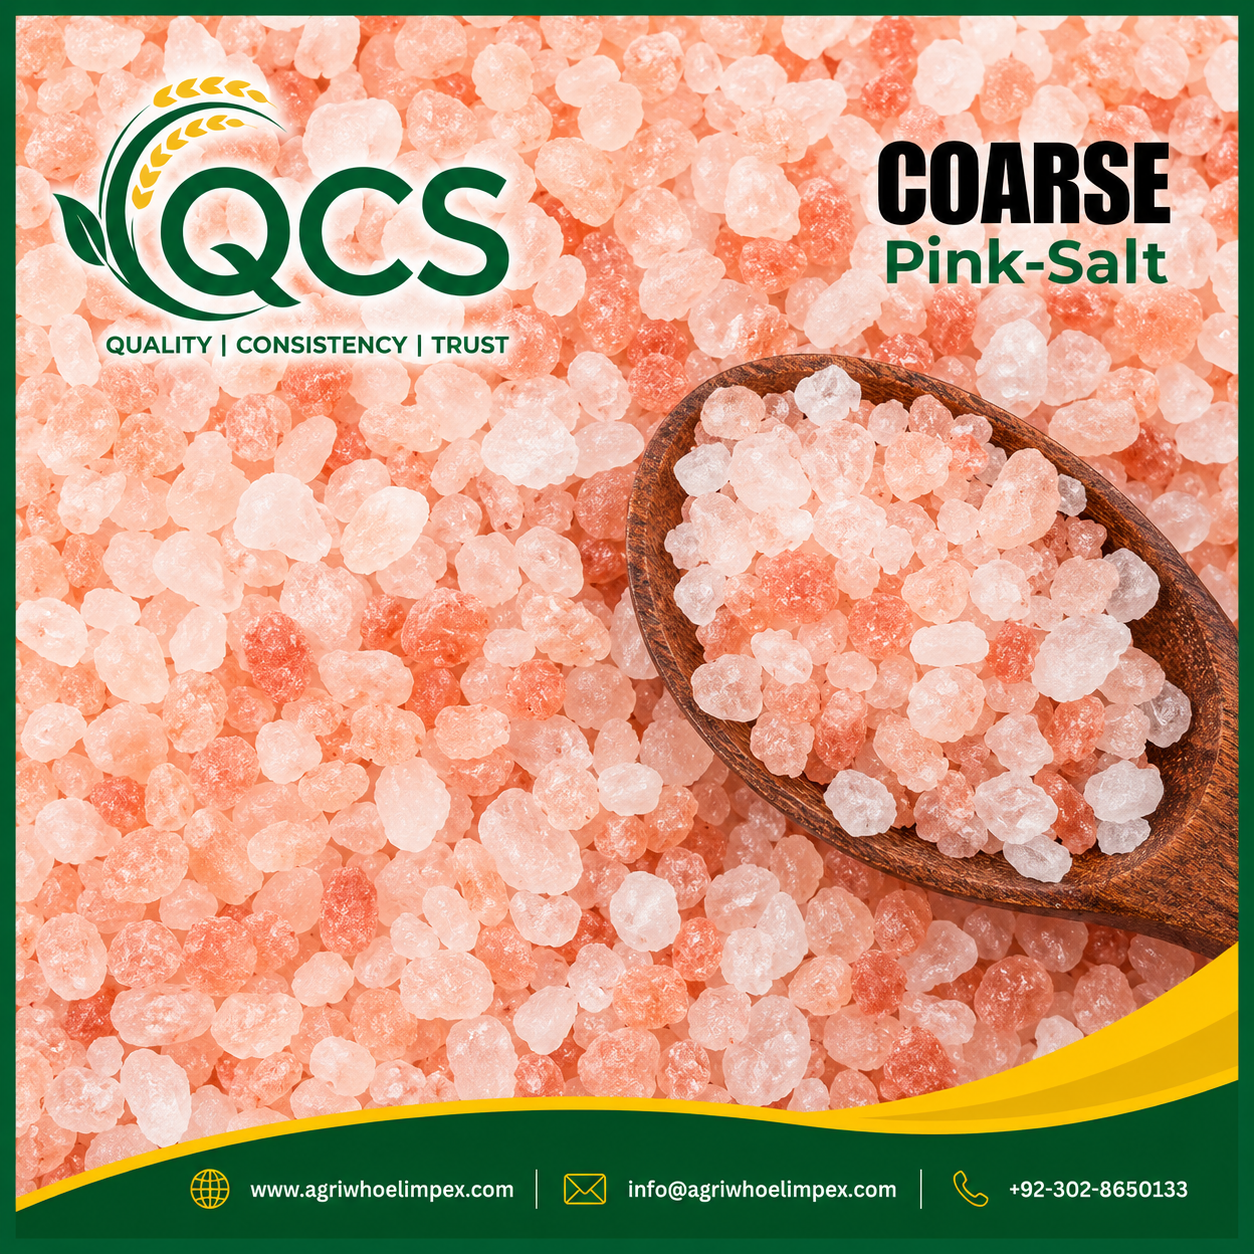
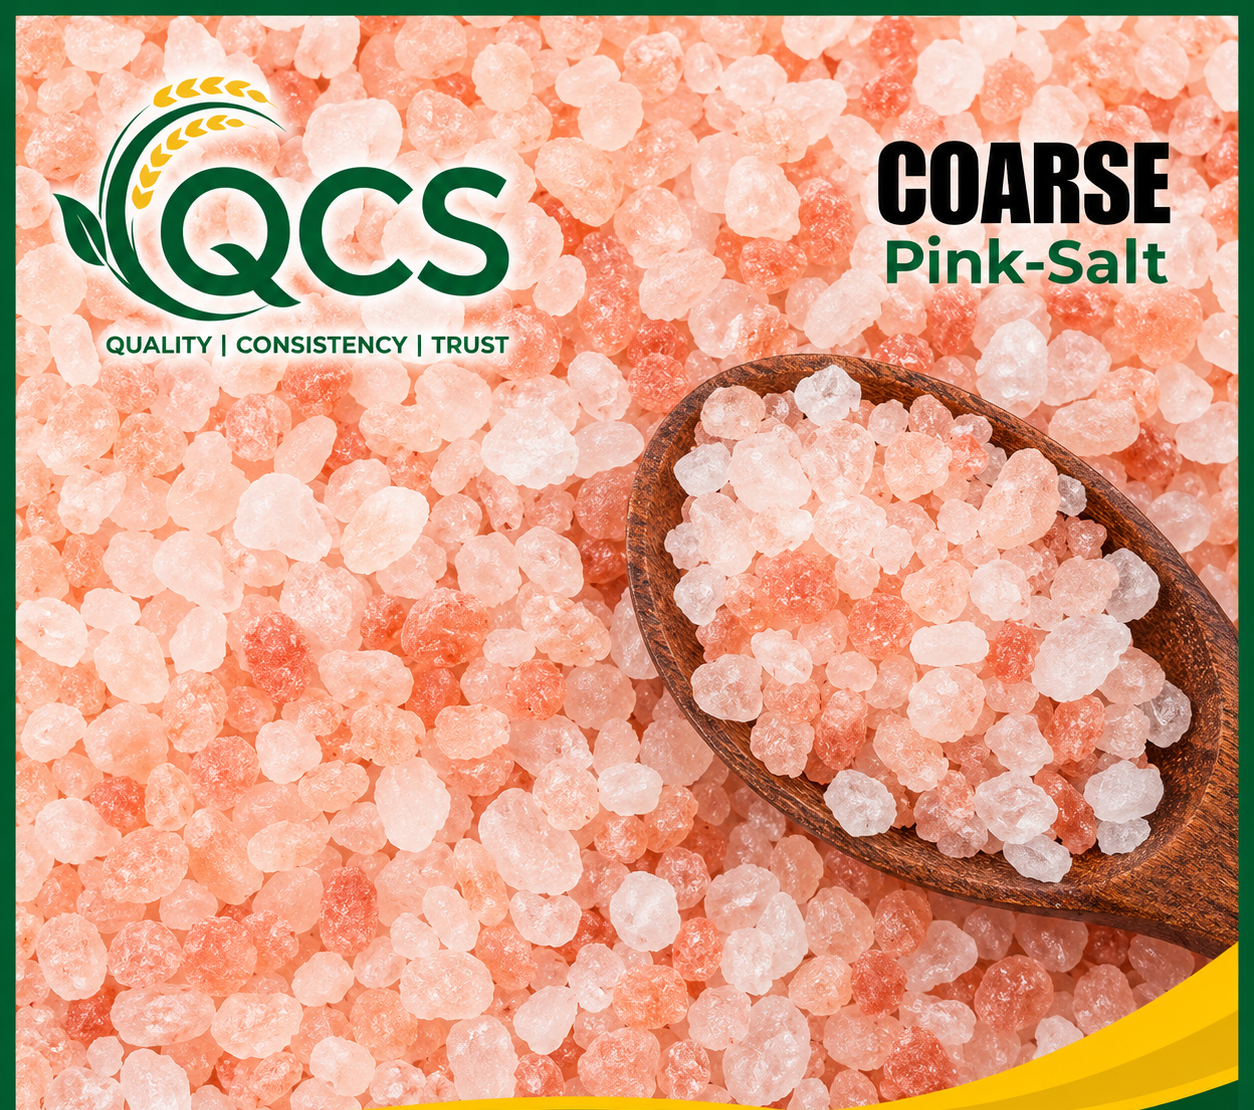
adding salt pics
Sale new 2 pics changed. GPT limit full

diff --git a/app/sourcing/page.tsx b/app/sourcing/page.tsx
@@ -9,6 +9,7 @@ import rice_img_steam from "@/public/img/rice_img_steam.png";
 import rice_img_steam2 from "@/public/img/rice_img_steam2.png";
 import rice_img_white from "@/public/img/rice_img_white.png";
 import salt_img_coarse from "@/public/img/salt_coarse.png";
+import salt_img_fine from "@/public/img/salt_fine_himaliyan.png";
 
 
 export default function sourcing() {
@@ -136,19 +137,19 @@ export default function sourcing() {
                 <div className="grid grid-cols-2 md:grid-cols-4 items-center text-center gap-5 p-5 mx-auto md:mx-10">
                     <div>
                         <Image src={salt_img_coarse} alt="mission" width={500} height={300} className="" ></Image>
-                        <p>1121 Sella Rice</p>
+                        <p>Coarse Himalyan Pink Salt</p>
+                    </div>
+                    <div>
+                        <Image src={salt_img_fine} alt="mission" width={500} height={300} className="" ></Image>
+                        <p>Fine Himalyan Pink Salt</p>
                     </div>
                     <div>
                         <Image src={rice_img_sella} alt="mission" width={500} height={300} className="" ></Image>
-                        <p>1121 Sella Rice</p>
+                        <p>Himalyan Pink Salt Lamp</p>
                     </div>
                     <div>
                         <Image src={rice_img_sella} alt="mission" width={500} height={300} className="" ></Image>
-                        <p>1121 Sella Rice</p>
-                    </div>
-                    <div>
-                        <Image src={rice_img_sella} alt="mission" width={500} height={300} className="" ></Image>
-                        <p>1121 Sella Rice</p>
+                        <p>Himalyan Pink Salt SPA Items</p>
                     </div>
                 </div>
             </div>

diff --git a/app/components/HeaderComponent.tsx b/app/components/HeaderComponent.tsx
@@ -1,4 +1,5 @@
 "use client";
+//This is new code file.
 import Link from "next/link";
 import { useState } from "react";
 